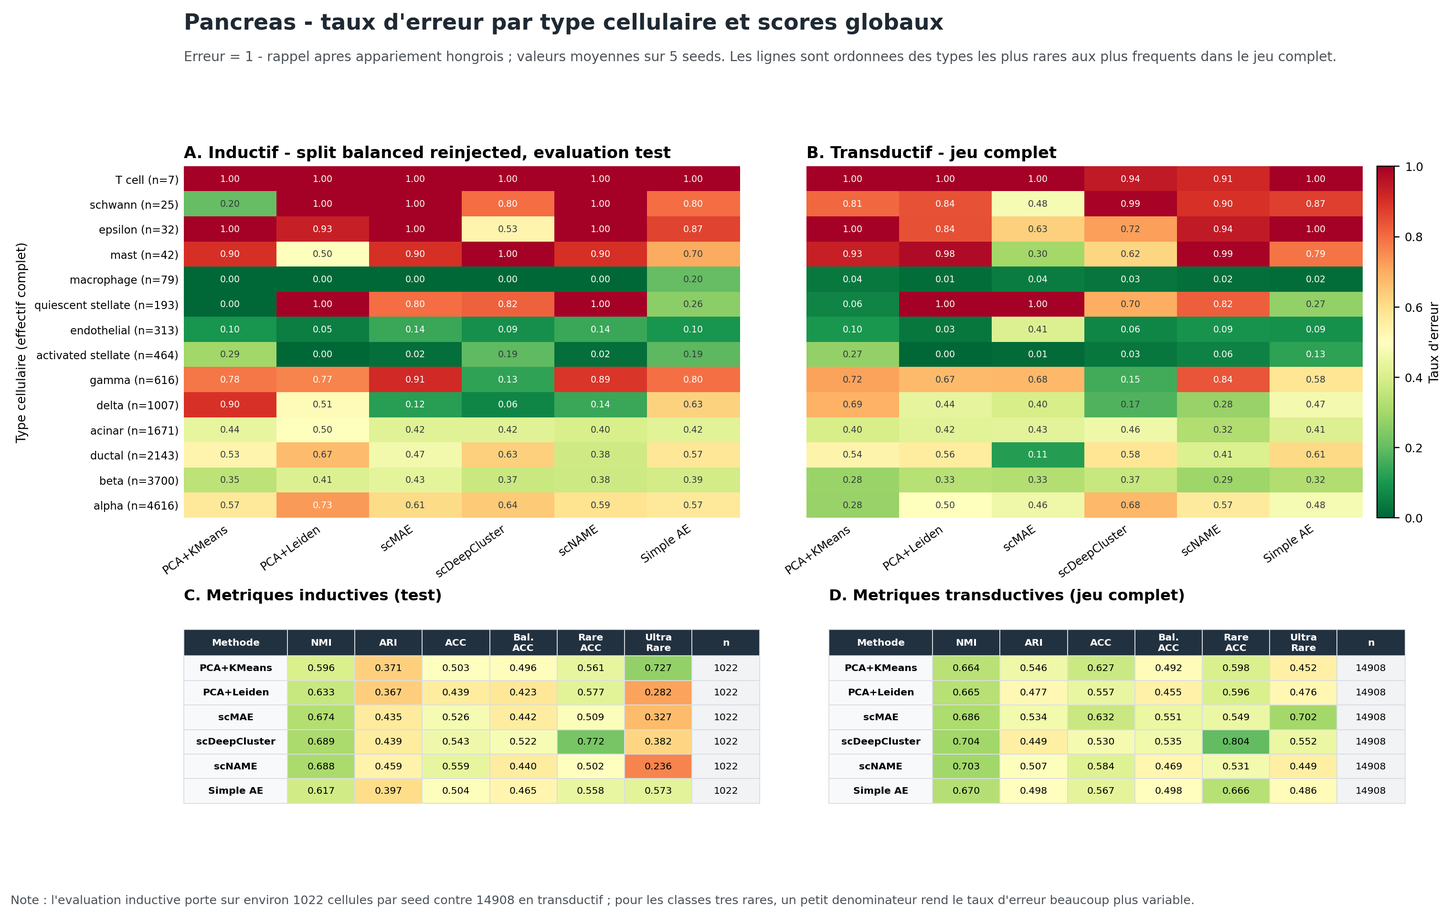
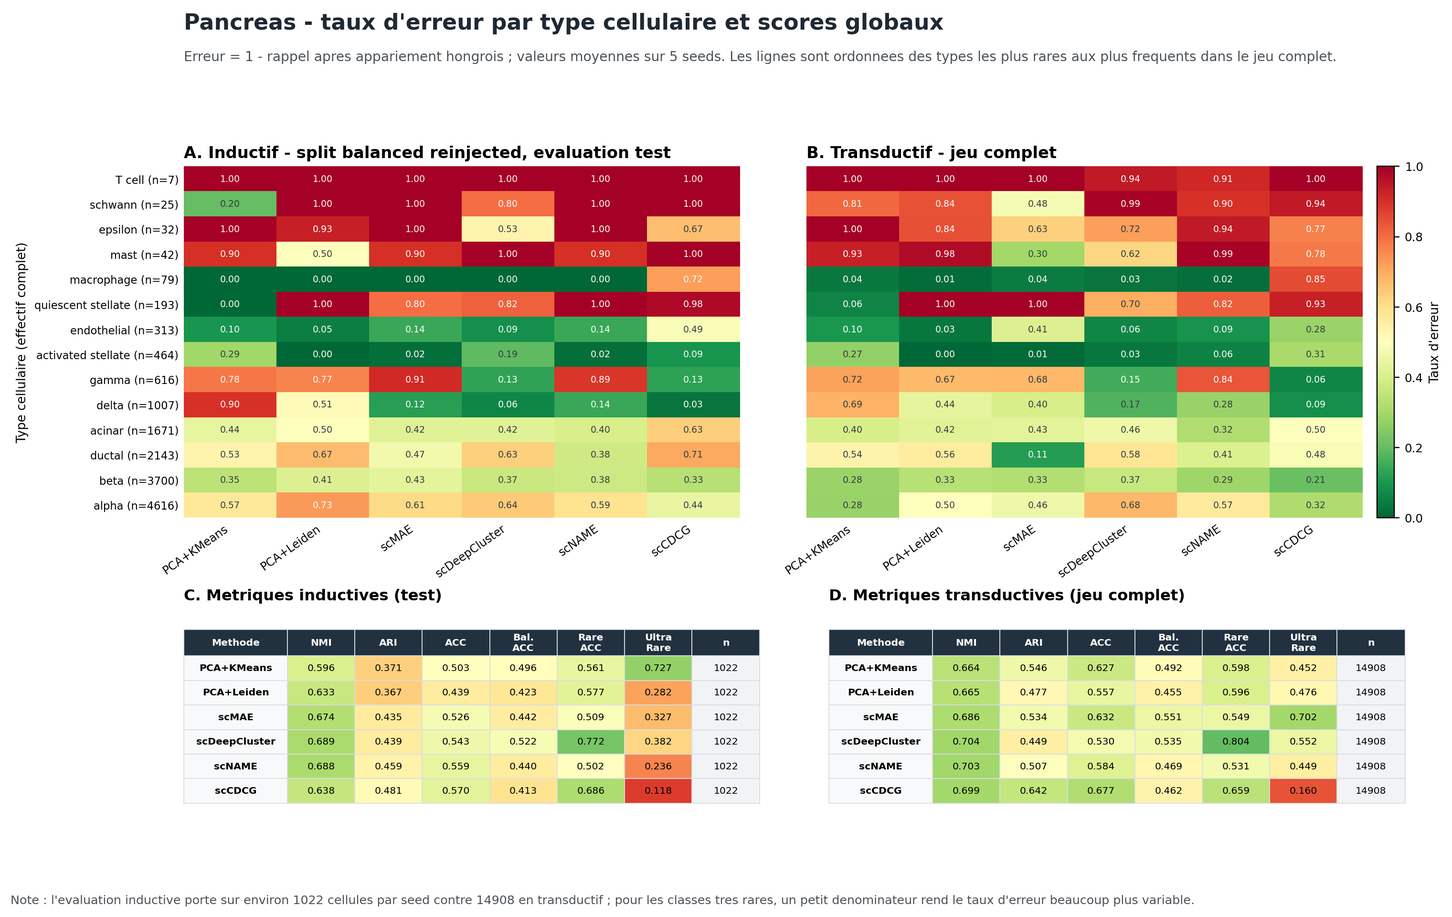
update

diff --git a/corps_rapport.tex b/corps_rapport.tex
@@ -219,9 +219,9 @@ Enfin, SCRBenchmark sauvegarde les éléments nécessaires à l'analyse et à la
 
 \subsubsection{Données et splits}
 
-Nous avons sélectionné le jeu de données de Baron \cite{Baron2016} pour effectuer ces premières expériences. Ce jeu de données de pancréas (comprenant des cohortes humaines et de souris) constitue un standard de référence largement utilisé dans la littérature pour évaluer les algorithmes de clustering de l'état de l'art. En particulier, les publications originales de plusieurs méthodes d'apprentissage profond comme scDeepCluster \cite{tian2019clustering}, scNAME \cite{wan_scname_2022}, scMAE \cite{Fang2024scMAE} et scCDCG \cite{xu_sccdcg_2025}, ainsi que des approches dédiées aux populations rares telles que CellSIUS \cite{Neri2019}, scAIDE \cite{scAIDE2020}, DeepScena \cite{Lei2023scHDR} et scCAD \cite{Xu2024scCAD} ainsi que le benchmark scClubench \cite{xu_scclubench_2026}, ont directement validé leurs performances sur ce jeu de données. L'intérêt majeur du jeu de données de Baron réside dans la présence de populations cellulaires bien caractérisées et de tailles extrêmement variées, ce qui est idéal pour évaluer les méthodes sur la détection de populations rares dans des contextes multi-donneurs impliquant des effets de lot importants. Dans nos expériences, nous avons séparé les données humaines et de souris afin de nous concentrer sur le jeu de données humain de Baron.
+Nous avons finalement retenu le jeu de données Pancreas pour les expériences présentées ici. Ce choix permettait de réunir dans un même cadre les deux difficultés au centre du mémoire : un effet de lot marqué et un fort déséquilibre entre types cellulaires. Le jeu de données assemble plusieurs lots issus de technologies de séquençage différentes, notamment \textit{inDrop}, \textit{CEL-Seq}, \textit{CEL-Seq2}, \textit{Fluidigm C1}, \textit{Smart-seq2} et \textit{SMARTer}. Il contient également des données issues du pancréas humain de Baron \cite{Baron2016}, qui constitue un standard de référence largement utilisé pour évaluer les méthodes de clustering en scRNA-seq. Les publications originales de plusieurs méthodes d'apprentissage profond comme scDeepCluster \cite{tian2019clustering}, scNAME \cite{wan_scname_2022}, scMAE \cite{Fang2024scMAE} et scCDCG \cite{xu_sccdcg_2025}, ainsi que des approches dédiées aux populations rares telles que CellSIUS \cite{Neri2019}, scAIDE \cite{scAIDE2020}, DeepScena \cite{Lei2023scHDR}, scCAD \cite{Xu2024scCAD} et le benchmark scCluBench \cite{xu_scclubench_2026}, s'appuient sur ce type de données pancréatiques pour valider leurs performances.
 
-Le tableau \ref{tab:classes_baron_humain} présente la composition du jeu de données humain utilisé dans nos expériences. Il contient 8\,569 cellules réparties en quatorze types cellulaires. Cette répartition montre que les données sont très déséquilibrées : les cellules \textit{beta} et \textit{alpha} représentent plus de la moitié du jeu de données, tandis que plusieurs populations, comme les \textit{macrophage}, \textit{mast} ou \textit{t\_cell}, représentent moins de 1\,\% des cellules.
+Après filtrage, les expériences de la figure~\ref{fig:existant_inductive_transductive_panel} portent sur 14\,908 cellules réparties en quatorze types cellulaires. Le tableau~\ref{tab:classes_pancreas} montre que les cellules \textit{alpha} et \textit{beta} représentent à elles seules plus de la moitié du jeu de données, tandis que plusieurs populations d'intérêt biologique, comme les \textit{macrophage}, \textit{mast}, \textit{schwann} ou \textit{t\_cell}, représentent moins de 1\,\% des cellules. Ce jeu de données est donc particulièrement adapté pour tester si un algorithme conserve les petites populations au lieu d'optimiser uniquement les grandes classes.
 
 \begin{table}[H]
     \centering
@@ -230,64 +230,57 @@ Le tableau \ref{tab:classes_baron_humain} présente la composition du jeu de don
         \toprule
         \textbf{Type cellulaire} & \textbf{Cellules} & \textbf{Proportion} & \textbf{Statut} \\
         \midrule
-        \textit{beta} & 2\,525 & 29,47\,\% & Fréquente \\
-        \textit{alpha} & 2\,326 & 27,14\,\% & Fréquente \\
-        \textit{ductal} & 1\,077 & 12,57\,\% & Fréquente \\
-        \textit{acinar} & 958 & 11,18\,\% & Fréquente \\
-        \textit{delta} & 601 & 7,01\,\% & Fréquente \\
-        \textit{activated\_stellate} & 284 & 3,31\,\% & Rare \\
-        \textit{gamma} & 255 & 2,98\,\% & Rare \\
-        \textit{endothelial} & 252 & 2,94\,\% & Rare \\
-        \textit{quiescent\_stellate} & 173 & 2,02\,\% & Rare \\
-        \textit{macrophage} & 55 & 0,64\,\% & Ultra-rare \\
-        \textit{mast} & 25 & 0,29\,\% & Ultra-rare \\
-        \textit{epsilon} & 18 & 0,21\,\% & Ultra-rare \\
-        \textit{schwann} & 13 & 0,15\,\% & Ultra-rare \\
-        \textit{t\_cell} & 7 & 0,08\,\% & Ultra-rare \\
+        \textit{alpha} & 4\,616 & 30,96\,\% & Fréquente \\
+        \textit{beta} & 3\,700 & 24,82\,\% & Fréquente \\
+        \textit{ductal} & 2\,143 & 14,37\,\% & Fréquente \\
+        \textit{acinar} & 1\,671 & 11,21\,\% & Fréquente \\
+        \textit{delta} & 1\,007 & 6,75\,\% & Fréquente \\
+        \textit{gamma} & 616 & 4,13\,\% & Rare \\
+        \textit{activated\_stellate} & 464 & 3,11\,\% & Rare \\
+        \textit{endothelial} & 313 & 2,10\,\% & Rare \\
+        \textit{quiescent\_stellate} & 193 & 1,29\,\% & Rare \\
+        \textit{macrophage} & 79 & 0,53\,\% & Ultra-rare \\
+        \textit{mast} & 42 & 0,28\,\% & Ultra-rare \\
+        \textit{epsilon} & 32 & 0,21\,\% & Ultra-rare \\
+        \textit{schwann} & 25 & 0,17\,\% & Ultra-rare \\
+        \textit{t\_cell} & 7 & 0,05\,\% & Ultra-rare \\
         \bottomrule
     \end{tabular}
-    \caption{Composition du jeu de données humain de Baron par type cellulaire. Les classes rares correspondent aux types représentant moins de 5\,\% des cellules, et les classes ultra-rares à ceux représentant moins de 1\,\%.}
-    \label{tab:classes_baron_humain}
+    \caption{Composition du jeu de données Pancreas après filtrage. Les classes rares correspondent aux types représentant moins de 5\,\% des cellules, et les classes ultra-rares à ceux représentant moins de 1\,\%.}
+    \label{tab:classes_pancreas}
 \end{table}
 
 Différentes expériences ont été menées afin de répondre à une question simple : est-ce qu'un modèle qui apprend une représentation sur certaines cellules est ensuite capable de rester performant sur des cellules qu'il n'a jamais vues ? Cette question distingue deux cadres d'évaluation. Dans un cadre transductif, toutes les cellules sont disponibles au moment de l'apprentissage et le modèle construit ses groupes à partir de l'ensemble complet. Ce cadre est utile pour explorer un jeu de données déjà acquis, mais il ne dit pas vraiment ce qui se passerait si l'on ajoutait de nouvelles cellules ensuite. Dans un cadre inductif, au contraire, le modèle est entraîné sur une partie des cellules, puis il doit projeter ou classer de nouvelles cellules sans être réentraîné depuis le début.
 
-Pour rendre cette évaluation possible avec des modèles basés sur des autoencodeurs, nous avons utilisé leur encodeur comme outil de projection. Cette adaptation s'appuie sur une idée déjà présente dans les méthodes de deep clustering comme DEC \cite{xie2016unsupervised} et IDEC \cite{guo2017improved}, où les cellules sont projetées dans un espace latent avant d'être rapprochées de centres de clusters. L'objectif d'appliquer un modèle entraîné à de nouvelles cellules se rapproche quant à lui davantage de la logique de projection de requêtes sur une référence (\textit{query-to-reference mapping}) proposée par scArches \cite{lotfollahi2021query} en génomique sur cellule unique. Concrètement, une fois le modèle entraîné, ses poids sont gelés : cela signifie qu'ils ne sont plus modifiés. Les cellules d'entraînement sont projetées dans l'espace latent, puis les centres des clusters appris sont calculés dans cet espace. Les nouvelles cellules passent ensuite par le même prétraitement et par le même encodeur ; elles sont finalement rattachées au cluster dont le centre est le plus proche, ou à un groupe de référence construit pendant l'entraînement. Cette logique a été appliquée aux modèles pour lesquels une projection de nouvelles cellules était possible. Elle ne peut pas être appliquée de manière automatique à toutes les méthodes, car certaines approches reconstruisent un graphe ou un clustering global à chaque analyse et restent donc principalement transductives.
+Pour rendre cette évaluation possible avec des modèles basés sur des autoencodeurs, nous avons utilisé leur encodeur comme outil de projection. Cette adaptation s'appuie sur une idée déjà présente dans les méthodes de deep clustering comme DEC \cite{xie2016unsupervised} et IDEC \cite{guo2017improved}, où les cellules sont projetées dans un espace latent avant d'être rapprochées de centres de clusters. L'objectif d'appliquer un modèle entraîné à de nouvelles cellules se rapproche quant à lui davantage de la logique de projection de requêtes sur une référence (\textit{query-to-reference mapping}) proposée par scArches \cite{lotfollahi2021query} en génomique sur cellule unique. Concrètement, une fois le modèle entraîné, ses poids sont gelés : cela signifie qu'ils ne sont plus modifiés. Les cellules d'entraînement sont projetées dans l'espace latent, puis les centres des clusters appris sont calculés dans cet espace. Les nouvelles cellules passent ensuite par le même prétraitement et par le même encodeur ; elles sont finalement rattachées au cluster dont le centre est le plus proche, ou à un groupe de référence construit pendant l'entraînement. Cette logique a été appliquée aux modèles pour lesquels une projection de nouvelles cellules était possible. Elle ne peut pas être appliquée de manière automatique à toutes les méthodes, car certaines approches reconstruisent un graphe ou un clustering global à chaque analyse et restent donc principalement transductives. Pour scCDCG, le modèle a été rendu inductif en utilisant uniquement son encodeur entraîné pour projeter individuellement les nouvelles cellules dans l'espace latent, sans reconstruire de graphe. Les cellules sont ensuite assignées au centroïde de cluster le plus proche ou par un vote de majorité parmi leurs $K$-plus-proches-voisins ($K$-NN) d'entraînement.
 
-Le jeu de données humain de Baron est composé de quatre sous-jeux, notés ici H1, H2, H3 et H4, qui correspondent à quatre donneurs humains. Nous avons donc utilisé ces sous-jeux pour construire plusieurs scénarios expérimentaux, dont le principe est schématisé dans la figure~\ref{fig:splits_baron}. Le premier scénario correspond à une analyse standard sur l'ensemble des données, éventuellement équilibrée pour éviter qu'un donneur plus grand domine l'évaluation. Le deuxième scénario consiste à séparer chaque donneur en trois parties : entraînement, validation et test. Les trois ensembles contiennent alors des cellules issues de tous les donneurs, mais les cellules du test n'ont pas été vues pendant l'apprentissage. Le troisième scénario est plus strict : on entraîne le modèle sur un ou plusieurs donneurs, puis on l'évalue sur un donneur différent. Ce dernier cas se rapproche davantage d'une situation réelle où l'on voudrait appliquer un modèle déjà entraîné à un nouveau patient ou à une nouvelle expérience.
+Dans Pancreas, les sous-jeux ne correspondent pas seulement à des donneurs, mais aussi à des technologies expérimentales différentes. Nous avons donc construit les expériences autour de la notion de lot, en conservant deux cadres principaux pour l'analyse des méthodes existantes. Le premier est transductif : l'ensemble des cellules filtrées est analysé simultanément. Le second est inductif : les cellules sont séparées en ensembles d'entraînement, de validation et de test, avec une stratification par lot et par type cellulaire. Pour limiter la domination des grands lots dans le test, nous avons utilisé un split \textit{balanced reinjected} : le test est équilibré entre lots, tandis que les cellules excédentaires sont réinjectées dans l'entraînement. Le principe est résumé dans la figure~\ref{fig:splits_pancreas}.
 
 \begin{figure}[H]
     \centering
-    \small
-    \setlength{\fboxsep}{2pt}
-    \newcommand{\bhone}[1][0.055\textwidth]{\fcolorbox{gray}{yellow!25}{\makebox[#1][c]{H1}}}
-    \newcommand{\bhtwo}[1][0.055\textwidth]{\fcolorbox{gray}{blue!25}{\makebox[#1][c]{H2}}}
-    \newcommand{\bhthree}[1][0.055\textwidth]{\fcolorbox{gray}{green!25}{\makebox[#1][c]{H3}}}
-    \newcommand{\bhfour}[1][0.055\textwidth]{\fcolorbox{gray}{purple!20}{\makebox[#1][c]{H4}}}
-    \newcommand{\bhthreewide}{\fcolorbox{gray}{green!25}{\makebox[0.16\textwidth][c]{H3}}}
     \begin{tabularx}{0.95\textwidth}{@{}p{0.27\textwidth}X@{}}
         \toprule
-        \textbf{Situation représentée} & \textbf{Schéma simplifié} \\
+        \textbf{Situation représentée} & \textbf{Principe expérimental} \\
         \midrule
-        Données initiales & \bhone \bhtwo \bhthreewide \bhfour \quad H3 est plus grand que les autres donneurs. \\
-        Équilibrage global & \bhone \bhtwo \bhthree \bhfour \quad Une partie des cellules des donneurs trop représentés est retirée ou réinjectée dans l'entraînement selon le protocole. \\
-        Split stratifié & Train : \bhone[0.07\textwidth] \bhtwo[0.07\textwidth] \bhthree[0.07\textwidth] \bhfour[0.07\textwidth] \newline Val : \bhone[0.025\textwidth] \bhtwo[0.025\textwidth] \bhthree[0.025\textwidth] \bhfour[0.025\textwidth] \newline Test : \bhone[0.025\textwidth] \bhtwo[0.025\textwidth] \bhthree[0.025\textwidth] \bhfour[0.025\textwidth] \\
-        Validation inter-donneur & Train : \bhone \bhtwo \bhthree \quad Test : \bhfour \\
+        Données initiales & Neuf lots ou technologies sont disponibles avant filtrage : \textit{celseq}, \textit{celseq2}, \textit{fluidigmc1}, \textit{inDrop1--4}, \textit{smartseq2} et \textit{smarter}. Leurs tailles sont très différentes, ce qui crée un effet de lot visible dès l'analyse exploratoire. \\
+        Mode transductif & Toutes les cellules filtrées sont utilisées ensemble. Ce cadre mesure la capacité d'une méthode à retrouver la structure globale du jeu de données complet. \\
+        Split stratifié & Les cellules sont réparties en entraînement, validation et test en conservant autant que possible les proportions de lots et de types cellulaires. \\
+        Split \textit{balanced reinjected} & Le test est équilibré entre lots pour éviter qu'un lot majoritaire domine l'évaluation. Les cellules non retenues pour équilibrer le test sont réinjectées dans l'entraînement. \\
         \bottomrule
     \end{tabularx}
     \smallskip
-    \hfill\parbox{0.95\textwidth}{\footnotesize\textit{Note : Le donneur testé n'est pas utilisé pendant l'entraînement.}}\hfill\null
-    \caption{Représentation simplifiée des principaux découpages utilisés sur le jeu de données humain de Baron. H1 à H4 correspondent aux quatre donneurs humains.}
-    \label{fig:splits_baron}
+    \hfill\parbox{0.95\textwidth}{\footnotesize\textit{Note : Le mode inductif présenté dans les résultats correspond au split \textit{balanced reinjected}.}}\hfill\null
+    \caption{Représentation simplifiée des principaux cadres expérimentaux utilisés sur le jeu de données Pancreas.}
+    \label{fig:splits_pancreas}
 \end{figure}
 
-Ces différents découpages permettent de mesurer des propriétés complémentaires. Le mode standard indique si une méthode retrouve correctement la structure globale du jeu de données. Le split stratifié mesure la capacité à généraliser à de nouvelles cellules lorsque les mêmes donneurs sont représentés dans l'entraînement. Le split inter-donneur est plus difficile, car il teste la robustesse du modèle face à un nouveau batch biologique ou technique. Dans chaque cas, les performances ont été évaluées avec des métriques globales, mais aussi avec des métriques centrées sur les petites populations. Nous avons défini les classes rares comme les types cellulaires représentant moins de 5\,\% des cellules, et les classes ultra-rares comme celles représentant moins de 1\,\%.
+Ces deux cadres permettent de mesurer des propriétés complémentaires. Le mode transductif indique si une méthode retrouve correctement la structure globale du jeu de données complet, mais il peut être dominé par les grands types cellulaires et les lots majoritaires. Le mode inductif teste au contraire la capacité à projeter des cellules non vues, dans un contexte où le test contient moins de cellules et où les populations rares deviennent parfois représentées par quelques exemples seulement. Dans chaque cas, les performances ont été évaluées avec des métriques globales, mais aussi avec des métriques centrées sur les petites populations. Nous avons défini les classes rares comme les types cellulaires représentant moins de 5\,\% des cellules, et les classes ultra-rares comme celles représentant moins de 1\,\%.
 
 \subsubsection{Méthodes}
 
-Nous avons alors lancé l'analyse sur un ensemble restreint de méthodes représentatives de l'état de l'art à partir des meilleurs algorithmes de scClubench \cite{xu_scclubench_2026}: PCA suivie de clustering K-Means ou de Leiden, scDeepCluster, scMAE, scNAME et scCDCG. Les méthodes ont été exécutées avec les recommandations des auteurs lorsque celles-ci étaient disponibles, en conservant les hyperparamètres standards afin d'éviter d'optimiser une méthode au détriment des autres.
+Nous avons alors lancé l'analyse sur un ensemble restreint de méthodes représentatives de l'état de l'art à partir des meilleurs algorithmes de scCluBench \cite{xu_scclubench_2026}: PCA suivie de clustering K-Means ou de Leiden, scDeepCluster, scMAE, scNAME et scCDCG. Les méthodes ont été exécutées avec les recommandations des auteurs lorsque celles-ci étaient disponibles, en conservant les hyperparamètres standards afin d'éviter d'optimiser une méthode au détriment des autres.
 
-Le prétraitement a été identique pour toutes les méthodes afin que les différences observées proviennent principalement des algorithmes et non de la préparation des données. Les cellules et les gènes très peu informatifs ont d'abord été filtrés, puis les comptes ont été normalisés à 10\,000 par cellule et transformés par logarithme. Nous avons ensuite conservé les 2\,000 gènes hautement variables (\textit{highly variable genes}, HVG) selon la stratégie de Seurat, avant une mise à l'échelle des données. Ce nombre de gènes a été retenu car il donnait les meilleurs résultats préliminaires sur le jeu de données de Baron, tout en restant suffisamment standard pour être comparable aux protocoles habituellement utilisés en scRNA-seq.
+Le prétraitement a été identique pour toutes les méthodes afin que les différences observées proviennent principalement des algorithmes et non de la préparation des données. Les cellules et les gènes très peu informatifs ont d'abord été filtrés, puis les comptes ont été normalisés à 10\,000 par cellule et transformés par logarithme. Nous avons ensuite conservé les 2\,000 gènes hautement variables (\textit{highly variable genes}, HVG) selon la stratégie de Seurat, avant une mise à l'échelle des données. Ce nombre de gènes constitue un compromis standard : il réduit le bruit et le coût de calcul tout en conservant suffisamment d'information pour comparer les méthodes sur un jeu multi-lots comme Pancreas.
 
 Dans les expériences avec séparation entraînement/validation/test, la sélection des gènes variables a été réalisée à partir des données d'entraînement afin d'éviter d'utiliser indirectement de l'information provenant du test. Chaque configuration a ensuite été répétée cinq fois avec des graines aléatoires différentes. Cette répétition était nécessaire car plusieurs méthodes d'apprentissage profond dépendent de l'initialisation du modèle, et parce que les résultats d'un seul lancement peuvent donner une vision trop optimiste ou trop pessimiste des performances réelles.
 
@@ -301,9 +294,11 @@ Les métriques globales comme l'ARI, le NMI ou l'ACC donnent une vision généra
 
 \subsubsection{Résultats}
 
-Les résultats obtenus sur le jeu de données Pancreas montrent que les métriques globales seules ne suffisent pas à caractériser la qualité biologique du clustering. La figure~\ref{fig:existant_inductive_transductive_panel} compare les mêmes méthodes dans deux cadres complémentaires : un cadre inductif, évalué sur le test d'un split \textit{balanced reinjected}, et un cadre transductif, évalué sur le jeu complet. Le panel remplace ici la matrice de confusion par un taux d'erreur par type cellulaire, défini comme \(1-\)rappel après appariement hongrois des clusters.
+Les résultats obtenus sur Pancreas montrent que les métriques globales seules ne suffisent pas à caractériser la qualité biologique du clustering. La figure~\ref{fig:existant_inductive_transductive_panel} compare les mêmes méthodes dans deux cadres complémentaires : un cadre inductif, évalué sur le test d'un split \textit{balanced reinjected}, et un cadre transductif, évalué sur le jeu complet. Le panel remplace ici la matrice de confusion par un taux d'erreur par type cellulaire, défini comme \(1-\)rappel après appariement hongrois des clusters.
 
-On observe que le mode inductif peut paraître plus favorable que le mode transductif pour plusieurs populations minoritaires, alors que les scores NMI et ARI restent corrects dans les deux cadres. Cette lecture doit toutefois rester prudente. Dans l'expérience inductive, l'évaluation porte sur environ 1\,022 cellules par graine, contre 14\,908 cellules en transductif. Pour une population ultra-rare, le test peut donc ne contenir qu'une ou deux cellules : si elles sont correctement attribuées par hasard, le taux d'erreur devient artificiellement faible, alors que le jeu complet impose de retrouver davantage de cellules et révèle plus clairement les confusions. Cette hypothèse d'un effet de petit effectif est plausible ; elle justifie de toujours lire les scores globaux avec les effectifs par type cellulaire, la RareACC, l'UltraRareACC et la stabilité entre graines.
+Dans le cadre transductif, plusieurs méthodes obtiennent des scores globaux corrects. Par exemple, scCDCG atteint l'ARI le plus élevé du panel (0,642), et scDeepCluster et scNAME atteignent les meilleurs NMI (environ 0,704 et 0,703). Pourtant, les premières lignes de la heatmap restent très rouges : les cellules \textit{t\_cell}, \textit{schwann}, \textit{epsilon} ou \textit{mast} sont mal retrouvées par la plupart des méthodes. À l'inverse, les grands types cellulaires comme \textit{alpha}, \textit{beta}, \textit{ductal} ou \textit{acinar} dominent plus fortement les scores globaux et peuvent masquer ces erreurs. Ce contraste explique pourquoi la BalancedACC, la RareACC et l'UltraRareACC sont nécessaires pour interpréter les résultats.
+
+Le mode inductif paraît parfois plus favorable pour certaines populations minoritaires, mais cette lecture doit rester prudente. L'évaluation inductive porte sur environ 1\,022 cellules par graine, contre 14\,908 cellules en transductif. Pour une population ultra-rare, le test peut donc ne contenir qu'une ou deux cellules : si elles sont correctement attribuées par hasard, le taux d'erreur devient artificiellement faible, alors que le jeu complet impose de retrouver davantage de cellules et révèle plus clairement les confusions. Cette hypothèse d'un effet de petit effectif est plausible ; elle explique pourquoi certains scores rares semblent meilleurs en inductif sans que cela suffise à prouver une meilleure généralisation. Elle justifie de toujours lire les scores globaux avec les effectifs par type cellulaire, la RareACC, l'UltraRareACC et la stabilité entre graines.
 
 \begin{figure}[H]
     \centering

diff --git a/annexes.tex b/annexes.tex
@@ -89,7 +89,7 @@ Baron human pancreas & Humain & 8 569 & 20 125 & 4 & 9 \\
 Human testis GSE112013 & Humain & 6 490 & 27 477 & 6 & 4 \\
 Kang PBMC & Humain & 24 679 & 35 635 & 16 & 1 \\
 Macaque retina bipolar & Macaque & 30 302 & 36 162 & 30 & 4 \\
-Pancreas raw counts & Humain & 16 400 & 14 813 & 8 & 9 \\
+Pancreas raw counts & Humain & 16 400 & 14 813 & 9 & 9 \\
 Pancreas 4 batches & Humain & 6 339 & 14 813 & 4 & 7 \\
 Paul15 bone marrow & Souris & 2 730 & 3 451 & 1 & 9 \\
 SCIB Human Pancreas 1 & Humain & 1 937 & 20 125 & 1 & 8 \\

diff --git a/Images/SCRBenchmark/generate_existant_analysis_figures.py b/Images/SCRBenchmark/generate_existant_analysis_figures.py
@@ -62,7 +62,7 @@ PANCREAS_ALGORITHMS = [
     ("sc_mae", "scMAE"),
     ("scdeepcluster", "scDeepCluster"),
     ("scname", "scNAME"),
-    ("simple_autoencoder", "Simple AE"),
+    ("sccdcg", "scCDCG"),
 ]
 
 CELL_ORDER = [
